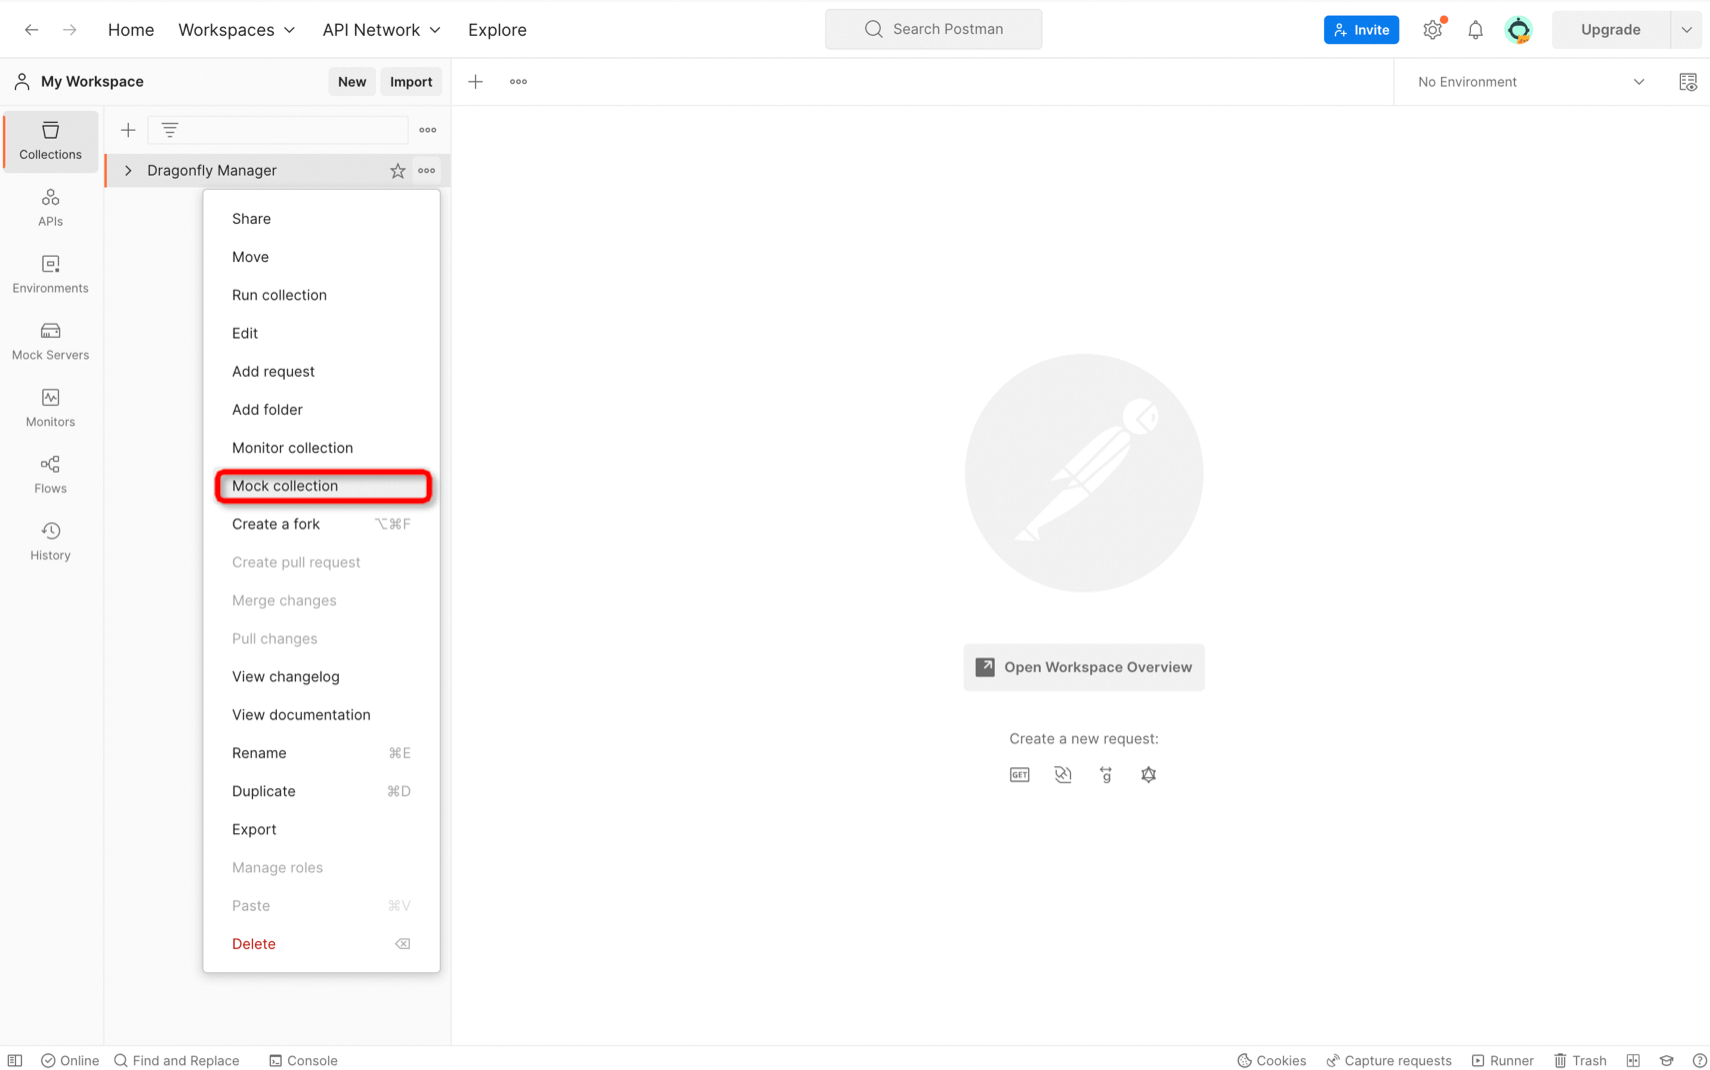
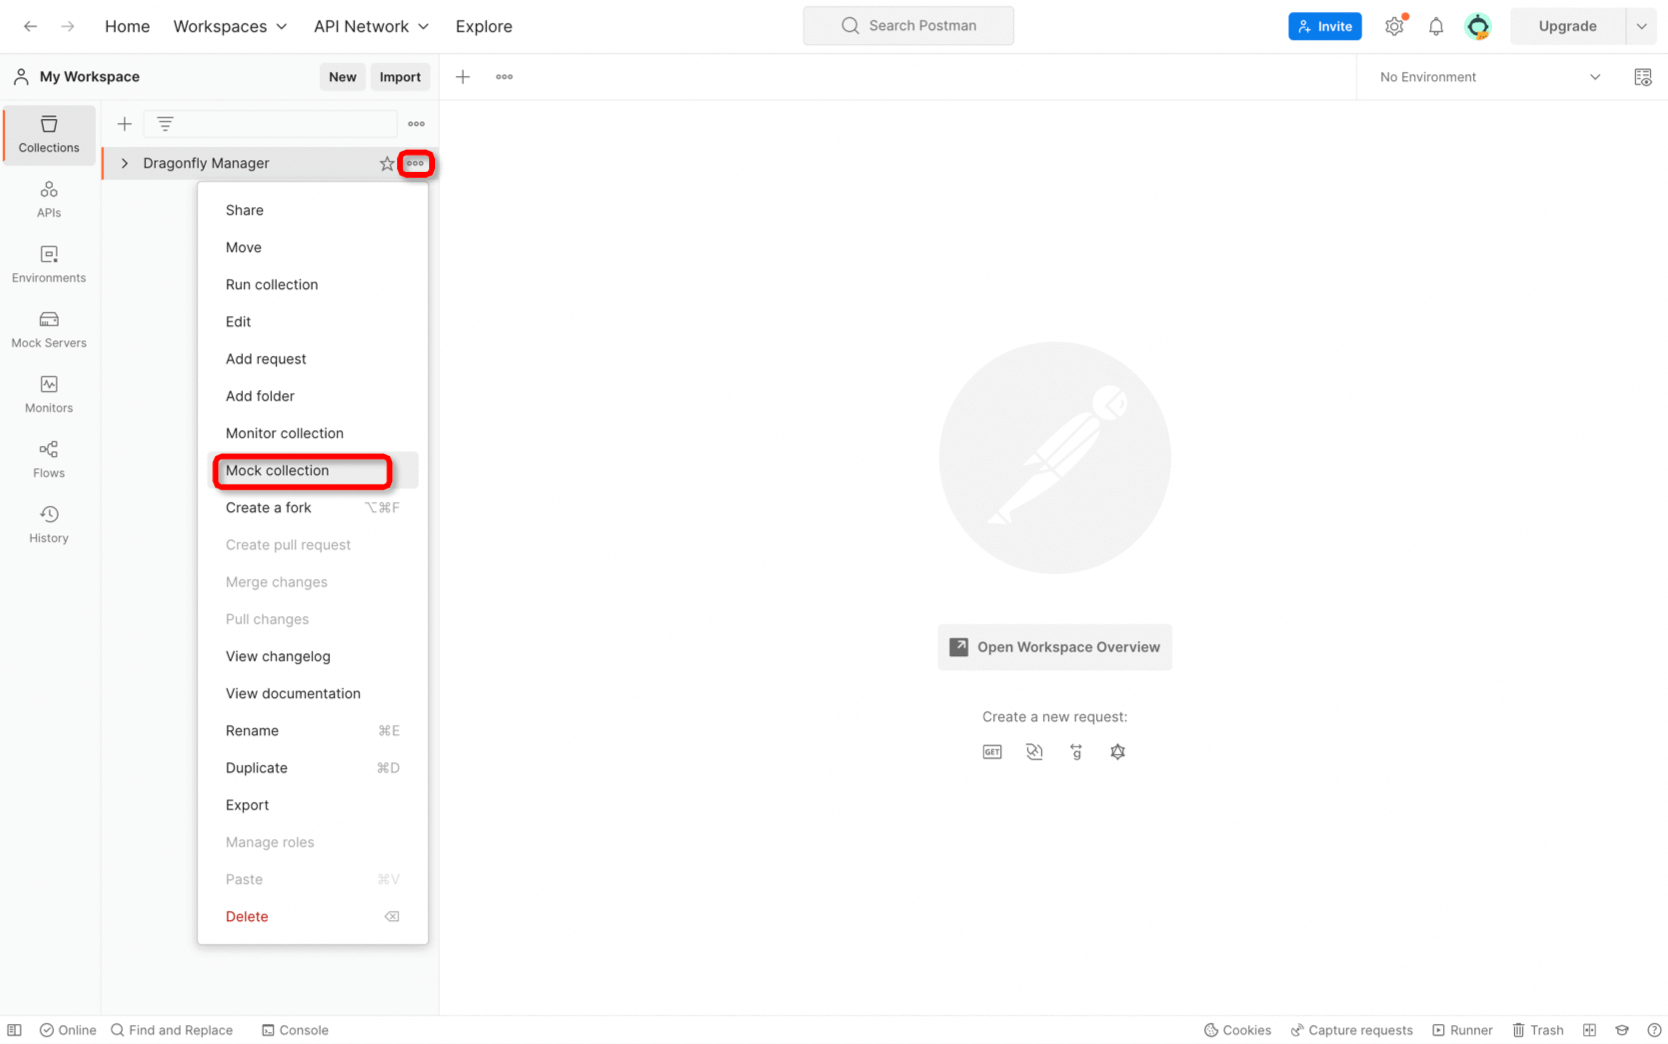
feat:add CONTROLBUTING.md

diff --git a/CONTRIBUTING.md b/CONTRIBUTING.md
@@ -22,7 +22,7 @@ And here is a list of contributing guide for you.
     - [Postman mock server step](#postman-mock-server-step)
     - [1. Download Postman](#1-download-postman)
     - [2. Import API](#2-import-api)
-    - [3. Creating a mock from a collection](#3-creating-a-mock-from-a-collection)
+    - [3. Setting up mock servers](#3-setting-up-mock-servers)
     - [4. Verification successful](#4-verification-successful)
 
 ## Reporting security issues
@@ -271,29 +271,32 @@ If you need to use a mock server, please import the [swagger.yaml](https://raw.g
 
 ![](/docs/images/contributing/postman-copy-collection.png)
     
-### 3. Creating a mock from a collection
+### 3. Setting up mock servers
+ 
+To test using a mock server do the following, refer to [mocking-data-setting-up-mock](https://learning.postman.com/docs/designing-and-developing-your-api/mocking-data/setting-up-mock/).
 
-  Step 1. Select Favorites in the sidebar. More Actions icon Select the More Actions icon next to the collection you want to mock, then choose Mock collection.
+   Step 1. Select the More Actions icon next to the collection you want to mock, then choose Mock collection.
+
 
 ![](/docs/images/contributing/postman-mock-collection.png)
     
-  Step 2.  Supplement the simulated server name information and save it.
+   Step 2.  Supplement the simulated server name information and save it.
 
 ![](/docs/images/contributing/postman-creat-mock.png)
 
-  Setp 3.  Copy mock URL.
+   Setp 3.  Copy mock URL.
 
 ![](/docs/images/contributing/postman-copy-mockUrl.png)
     
-  Step 4.  If a request has already been sent, mock servers can be used based on the request.
+   Step 4.  If a request has already been sent, mock servers can be used based on the request.
    
  ![](/docs/images/contributing/postman-change-path.png)
 
-  Step 5:  If no request has been sent, an instance needs to be created.
+   Step  5:  If no request has been sent, an instance needs to be created.
 
 ![](/docs/images/contributing/postman-add-example.png)
     
-  Step 6:  Modify the name such as signup, modify the response message, and Save Example.
+   Step  6:  Modify the name such as signup, modify the response message, and Save Example.
 
 ![](/docs/images/contributing/postman-chang-mock-path.png) 
 
